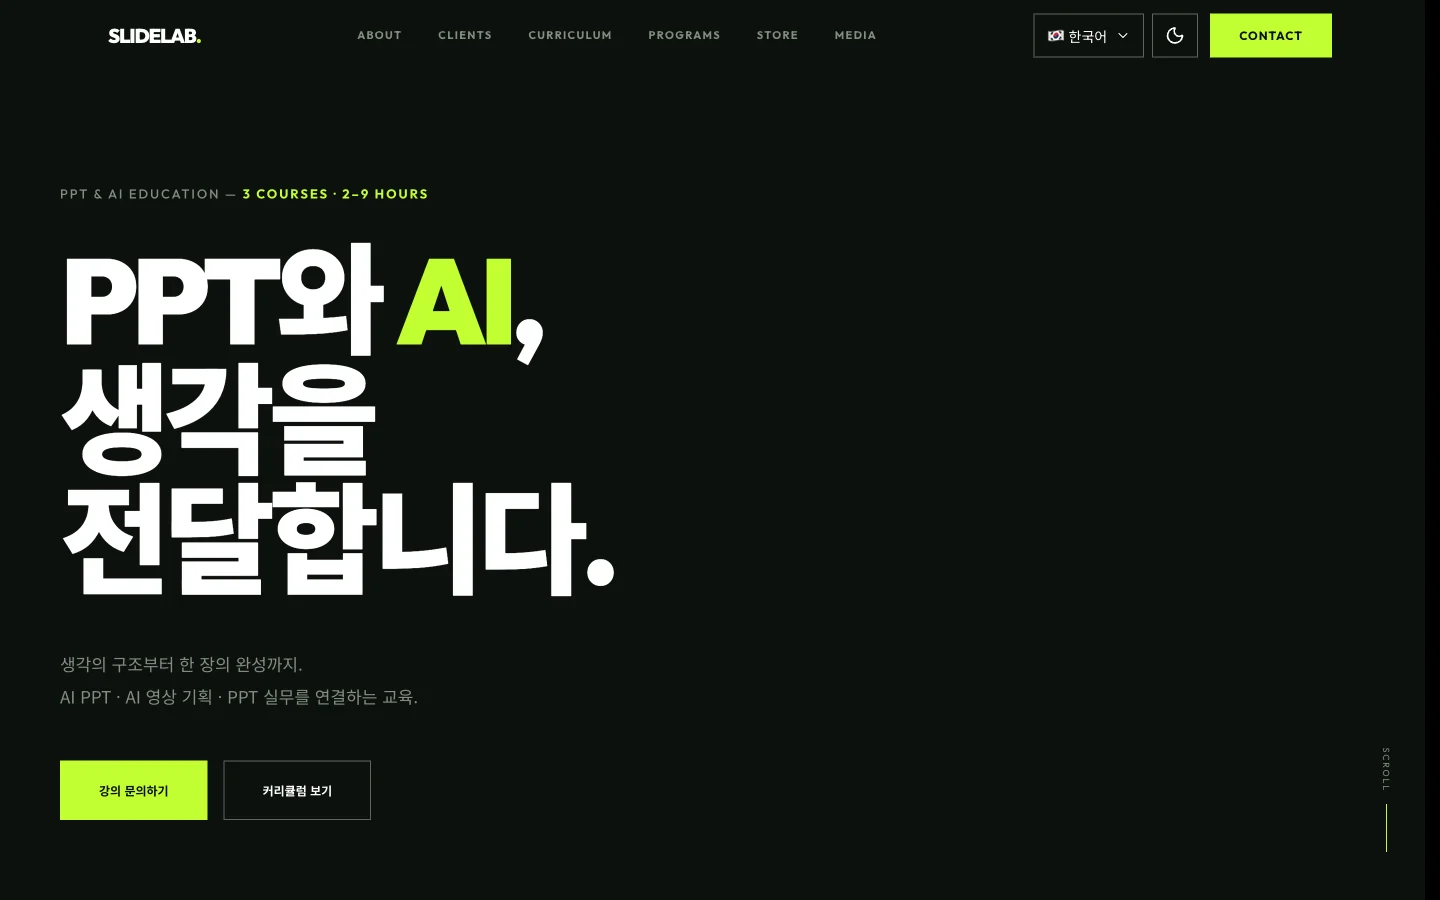
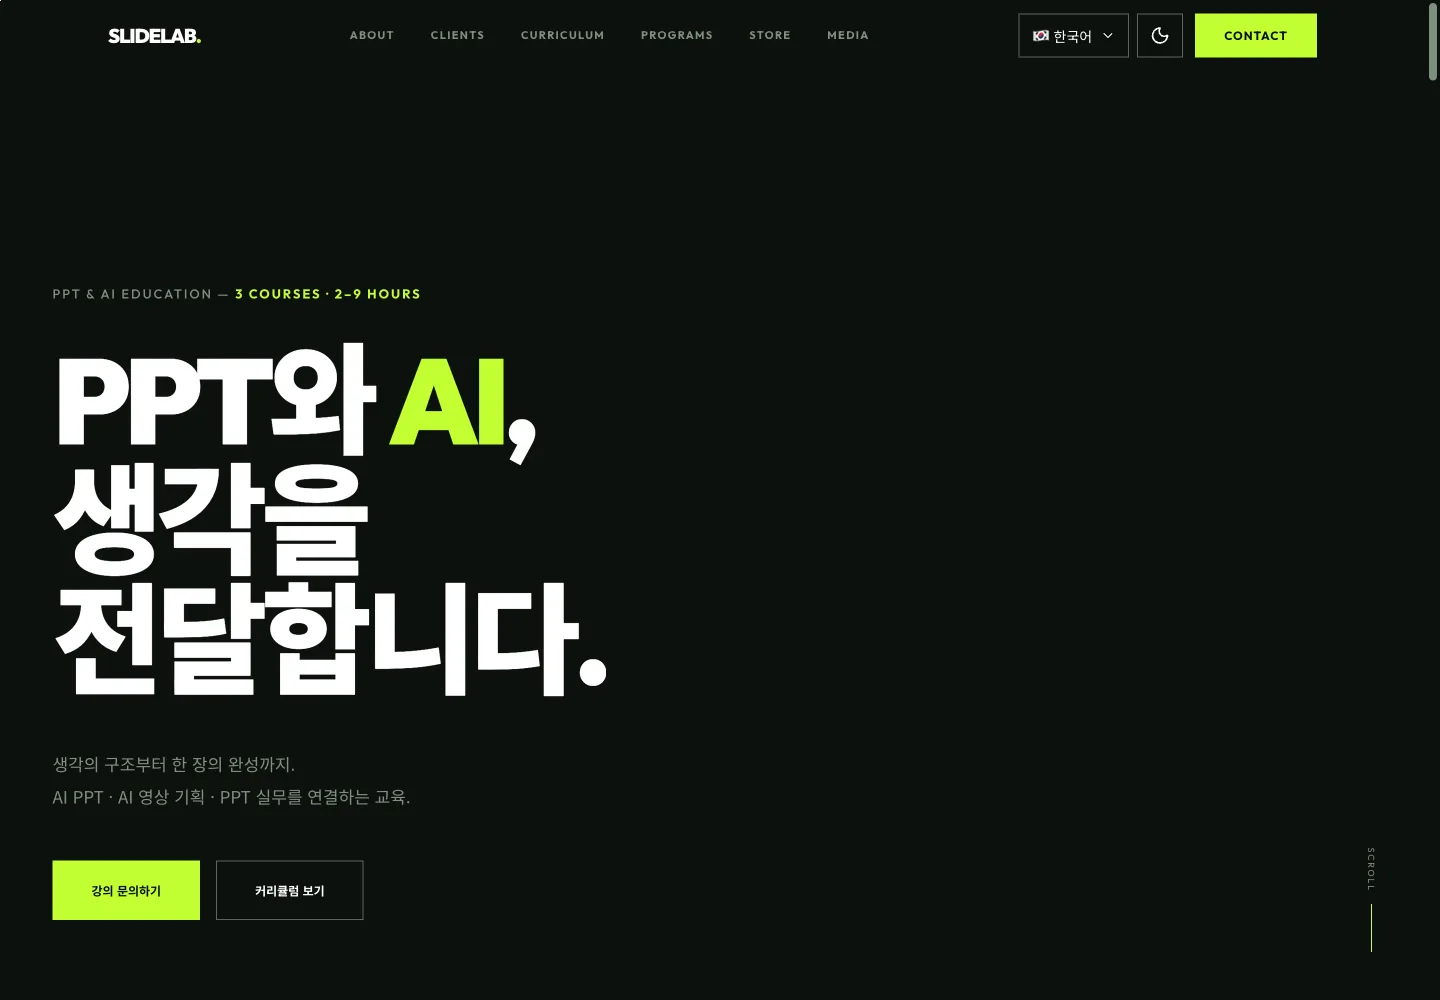
fix: 슬라이드랩 메뉴 개선 평가와 팩 다운로드 갱신

diff --git a/docs/common-values.md b/docs/common-values.md
@@ -327,7 +327,7 @@
 | `clones.full.cached.range` | 3억\~3.9억 | 클론 튜토리얼을 끝까지(1~12장) 캐시 포함 토큰 범위 | 계산: doc-values.json presets(최소 claudle, 최대 nextflix) | `doc-values.json`을 고친다 | 1 |
 | `clones.full.limit.range` | 약 3\~4번 | 클론 튜토리얼을 끝까지(1~12장) Pro 5시간 한도 범위 | 계산: doc-values.json 클론 튜토리얼 한도 번 수의 최소~최대 | `doc-values.json`을 고친다 | 0 |
 | `presets.design.first.summary` | Refero Styles 6개, awesome-design-md 2개 | 1위로 고른 스타일의 카탈로그별 수 | 계산: doc-values.json 화면 프리셋 design.recs 1위의 카탈로그 | `doc-values.json`을 고친다 | 1 |
-| `presets.design.critique.list` | 제철상자 35, 하루공부 33, PACECREW 31, 고루 30, 올곧 30, 울림 29, AFTERGLOW 29, 스피커 포트폴리오 29, 핏슬롯 28, Uptrail 28, 슬라이드랩 27 | 디자인 리뷰 점수가 높은 순서(이름 점수) | 계산: doc-values.json 화면 프리셋 design.critique 내림차순 | `doc-values.json`을 고친다 | 1 |
+| `presets.design.critique.list` | 제철상자 35, 하루공부 33, PACECREW 31, 고루 30, 올곧 30, 울림 29, AFTERGLOW 29, 스피커 포트폴리오 29, 핏슬롯 28, Uptrail 28, 슬라이드랩 28 | 디자인 리뷰 점수가 높은 순서(이름 점수) | 계산: doc-values.json 화면 프리셋 design.critique 내림차순 | `doc-values.json`을 고친다 | 1 |
 | `packs.count` | 13 | 공개 프리셋 팩 수 | tutorials/packs.json 공개 항목 수 | 정본 파일이 바뀌면 따라 바뀐다 | 0 |
 | `pack.nextflix.release` | https://github.com/roadkwon-ai/pro-kit-premium-packs/releases/tag/pack-nextflix | nextflix 프리셋 팩 릴리스 쪽 주소 | tutorials/packs.json 공개 url → releases/tag | 정본 파일이 바뀌면 따라 바뀐다 | 1 |
 | `pack.claudle.release` | https://github.com/roadkwon-ai/pro-kit-premium-packs/releases/tag/pack-claudle | claudle 프리셋 팩 릴리스 쪽 주소 | tutorials/packs.json 공개 url → releases/tag | 정본 파일이 바뀌면 따라 바뀐다 | 1 |
@@ -365,7 +365,7 @@
 | `pack.olgot.zip` | https://github.com/roadkwon-ai/pro-kit-premium-packs/releases/download/pack-olgot/olgot-pack.zip | olgot 프리셋 팩 zip 내려받기 주소 | tutorials/packs.json url | 정본 파일이 바뀌면 따라 바뀐다 | 1 |
 | `pack.olgot.size` | 29.9MB | olgot 프리셋 팩 zip 크기 | tutorials/packs.json bytes(MB, 소수 한 자리) | 정본 파일이 바뀌면 따라 바뀐다 | 1 |
 | `pack.slidelab.zip` | https://github.com/roadkwon-ai/pro-kit-packs/releases/download/pack-slidelab/slidelab-pack.zip | slidelab 프리셋 팩 zip 내려받기 주소 | tutorials/packs.json url | 정본 파일이 바뀌면 따라 바뀐다 | 1 |
-| `pack.slidelab.size` | 34.9MB | slidelab 프리셋 팩 zip 크기 | tutorials/packs.json bytes(MB, 소수 한 자리) | 정본 파일이 바뀌면 따라 바뀐다 | 1 |
+| `pack.slidelab.size` | 33.6MB | slidelab 프리셋 팩 zip 크기 | tutorials/packs.json bytes(MB, 소수 한 자리) | 정본 파일이 바뀌면 따라 바뀐다 | 1 |
 | `pack.speaker-portfolio.zip` | https://github.com/roadkwon-ai/pro-kit-premium-packs/releases/download/pack-speaker-portfolio/speaker-portfolio-pack.zip | speaker-portfolio 프리셋 팩 zip 내려받기 주소 | tutorials/packs.json url | 정본 파일이 바뀌면 따라 바뀐다 | 1 |
 | `pack.speaker-portfolio.size` | 11.2MB | speaker-portfolio 프리셋 팩 zip 크기 | tutorials/packs.json bytes(MB, 소수 한 자리) | 정본 파일이 바뀌면 따라 바뀐다 | 1 |
 | `process.research.<과정>.<단계>` | 15개(`--list`) | 리서치 단계에 에이전트가 일한 시간. <과정>은 claudle·nextflix, <단계>는 scope(범위)·first·more(Claudle 첫 조사·보강)·public·login(Nextflix 공개·로그인 화면)·features(기능과 규칙)·firstSummary·moreSummary·summary·verify(분석과 요약)·decide(내 답), analysis(분석과 요약 합)·total(decide를 뺀 합, 5분 단위)은 계산값 | doc-values.json process.research.claudle.scope | `doc-values.json`을 고친다 | 13 |

diff --git a/tutorials/samples/slidelab.md b/tutorials/samples/slidelab.md
@@ -36,7 +36,7 @@ DB는 쓰지 않아. 없는 준비물은 설치해줘.
 > [!IMPORTANT]
 > **프롬프트만 보내면 에이전트가 이 프리셋 팩을 자동으로 받아 설치해요. 따로 받지 않아도 돼요.**
 >
-> 직접 받으려면 [slidelab-pack.zip](https://github.com/roadkwon-ai/pro-kit-packs/releases/download/pack-slidelab/slidelab-pack.zip)(34.9MB, [릴리스](https://github.com/roadkwon-ai/pro-kit-packs/releases/tag/pack-slidelab))을 받고, 프롬프트 끝에 `프리셋 팩 zip은 [~/Downloads/slidelab-pack.zip]에 받아 뒀어.` 한 줄을 더하세요. 에이전트가 그 zip이 최신 판인지 확인하고, 옛 판이면 새로 받아요.
+> 직접 받으려면 [slidelab-pack.zip](https://github.com/roadkwon-ai/pro-kit-packs/releases/download/pack-slidelab/slidelab-pack.zip)(33.6MB, [릴리스](https://github.com/roadkwon-ai/pro-kit-packs/releases/tag/pack-slidelab))을 받고, 프롬프트 끝에 `프리셋 팩 zip은 [~/Downloads/slidelab-pack.zip]에 받아 뒀어.` 한 줄을 더하세요. 에이전트가 그 zip이 최신 판인지 확인하고, 옛 판이면 새로 받아요.
 <!-- /b -->
 
 <!-- b:preset-next-steps -->
@@ -124,7 +124,7 @@ DB는 쓰지 않아. 없는 준비물은 설치해줘.
 
 이전 제작 중 일부 구간의 기록은 보존하지만 전체 제작량으로 합치지 않았어요. [기록의 범위](https://github.com/roadkwon-ai/pro-kit/blob/main/docs/reports/2026-10-11-preset-skills/README.md)와 팩 재현 예상을 구분해요.
 
-디자인 평가는 닐슨의 열 가지 기준으로 <!-- v:preset.slidelab.design.critique -->27<!-- /v -->점이며, [기준별 점수와 감점 이유](https://prokit.highvalue.kr/process/?preset=slidelab#step-5)를 함께 확인해요.
+디자인 평가는 닐슨의 열 가지 기준으로 <!-- v:preset.slidelab.design.critique -->28<!-- /v -->점이며, [기준별 점수와 감점 이유](https://prokit.highvalue.kr/process/?preset=slidelab#step-5)를 함께 확인해요.
 
 <!-- b:preset-estimate-stages name=slidelab -->
 <details>
